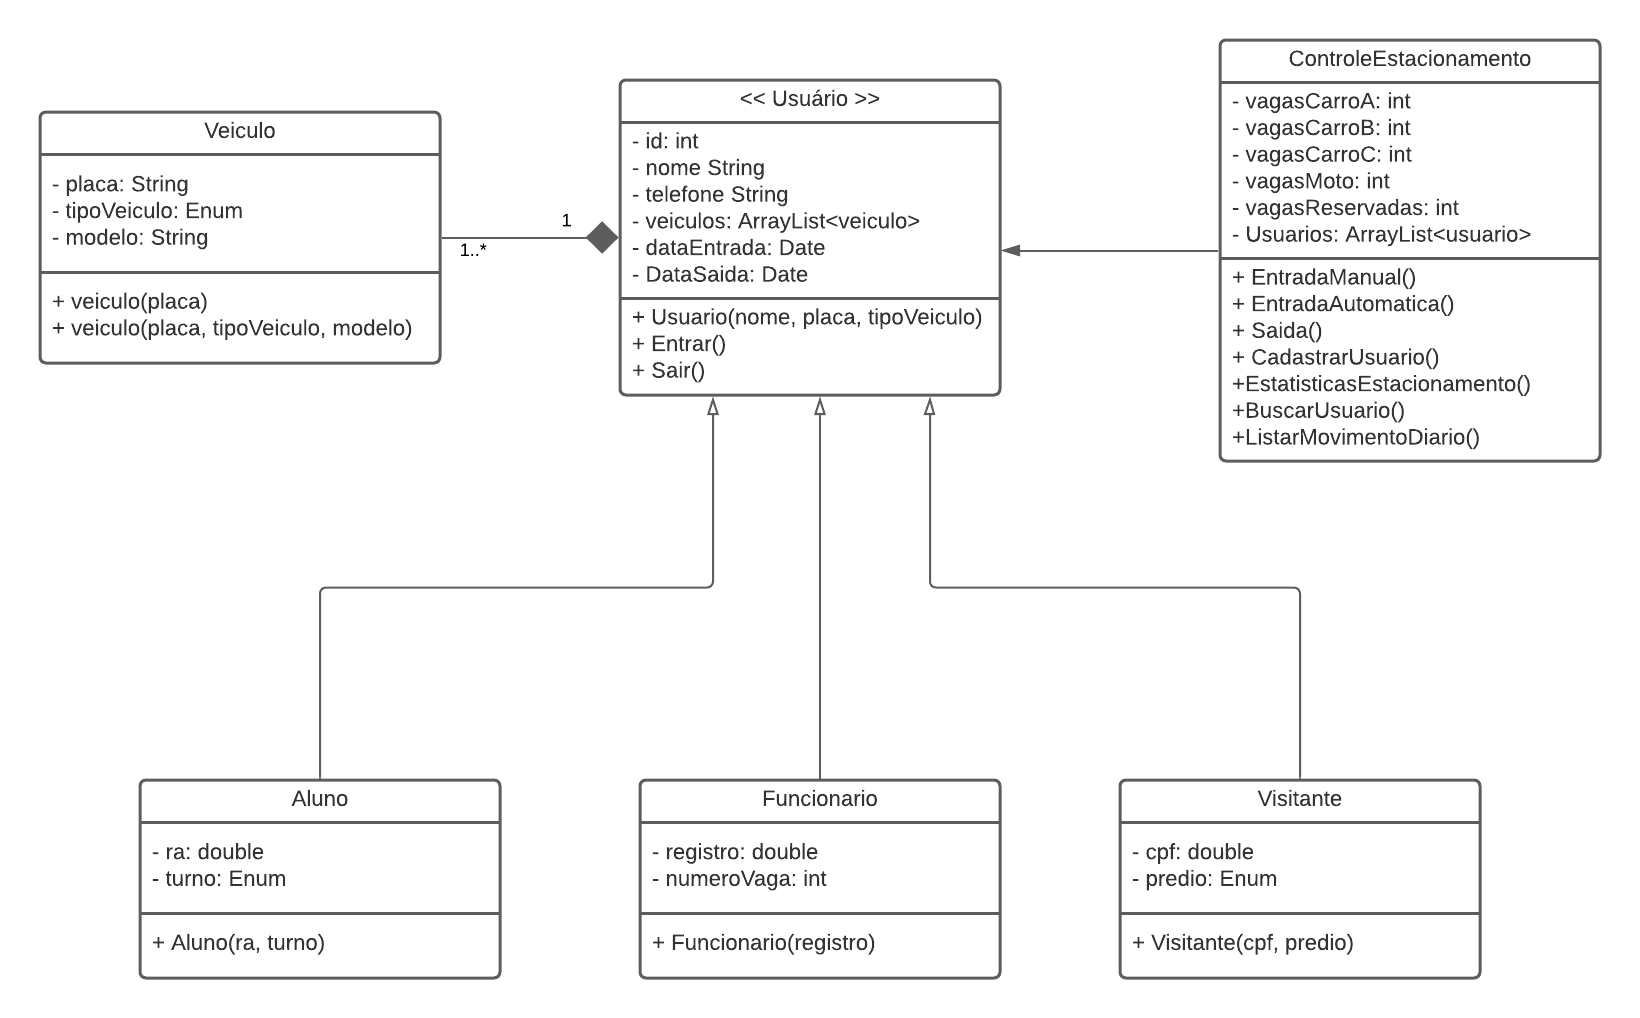
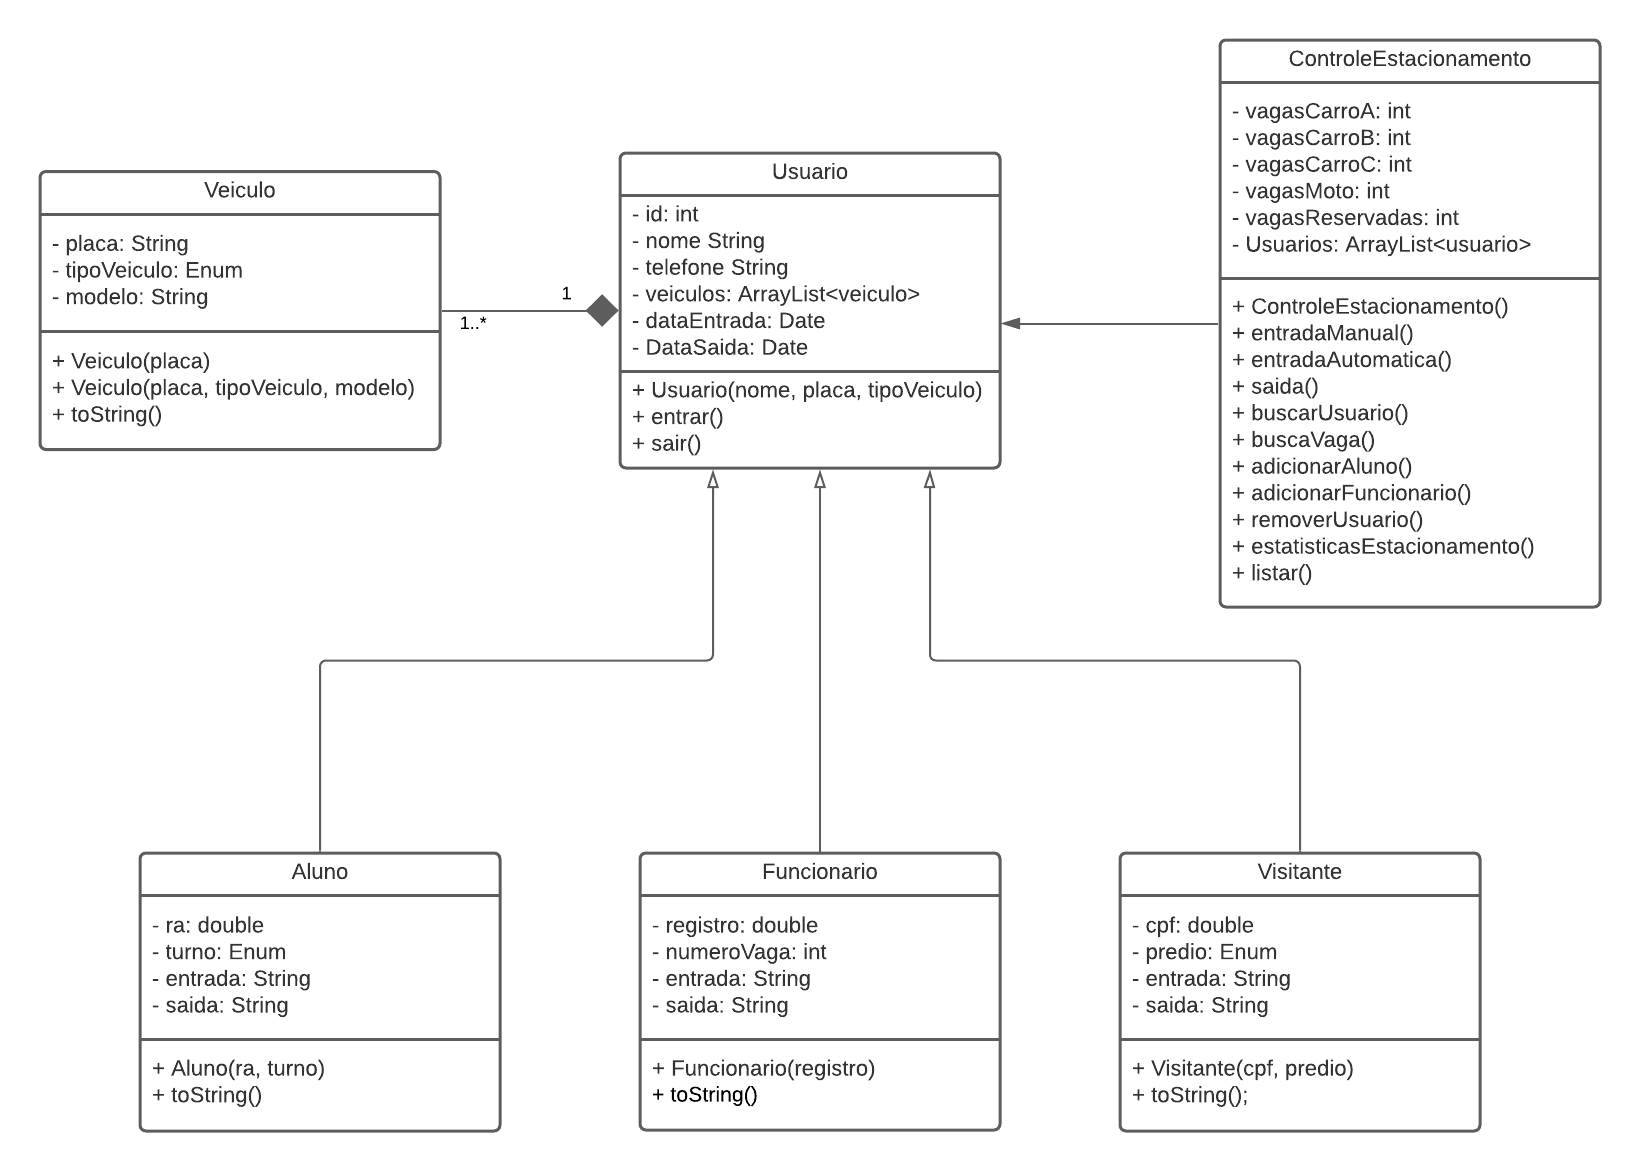
Atualização do diagrama UML

diff --git a/src/main/java/br/edu/ufabc/poo/estacionamento/controle/ControleEstacionamento.java b/src/main/java/br/edu/ufabc/poo/estacionamento/controle/ControleEstacionamento.java
@@ -37,7 +37,7 @@ public class ControleEstacionamento {
 		}
 		
 		Visitante visitante = new Visitante(nome, cpf, predio, carro);
-		visitante.Entrar();
+		visitante.entrar();
 		this.usuarios.add(visitante);
 		
 		String retorno = buscaVaga(carro);
@@ -51,7 +51,7 @@ public class ControleEstacionamento {
 
 			String retorno = "";
 
-			usuario.Entrar();
+			usuario.entrar();
 			
 			if(usuario instanceof Funcionario) {
 				
@@ -85,7 +85,7 @@ public class ControleEstacionamento {
 		
 		try {	
 			Usuario usuario = buscarUsuario(nome);
-			usuario.Sair();
+			usuario.sair();
 			
 			if(estacionamento.equals("A")) {
 				this.vagasCarroA--;

diff --git a/src/main/java/br/edu/ufabc/poo/estacionamento/modelo/Usuario.java b/src/main/java/br/edu/ufabc/poo/estacionamento/modelo/Usuario.java
@@ -47,12 +47,12 @@ public abstract class Usuario {
 		return dataSaida;
 	}
 
-	public Date Entrar() {
+	public Date entrar() {
 		
 		return dataEntrada = new Date();
 	}
 	
-	public Date Sair() {
+	public Date sair() {
 		
 		return dataSaida = new Date();
 	}
